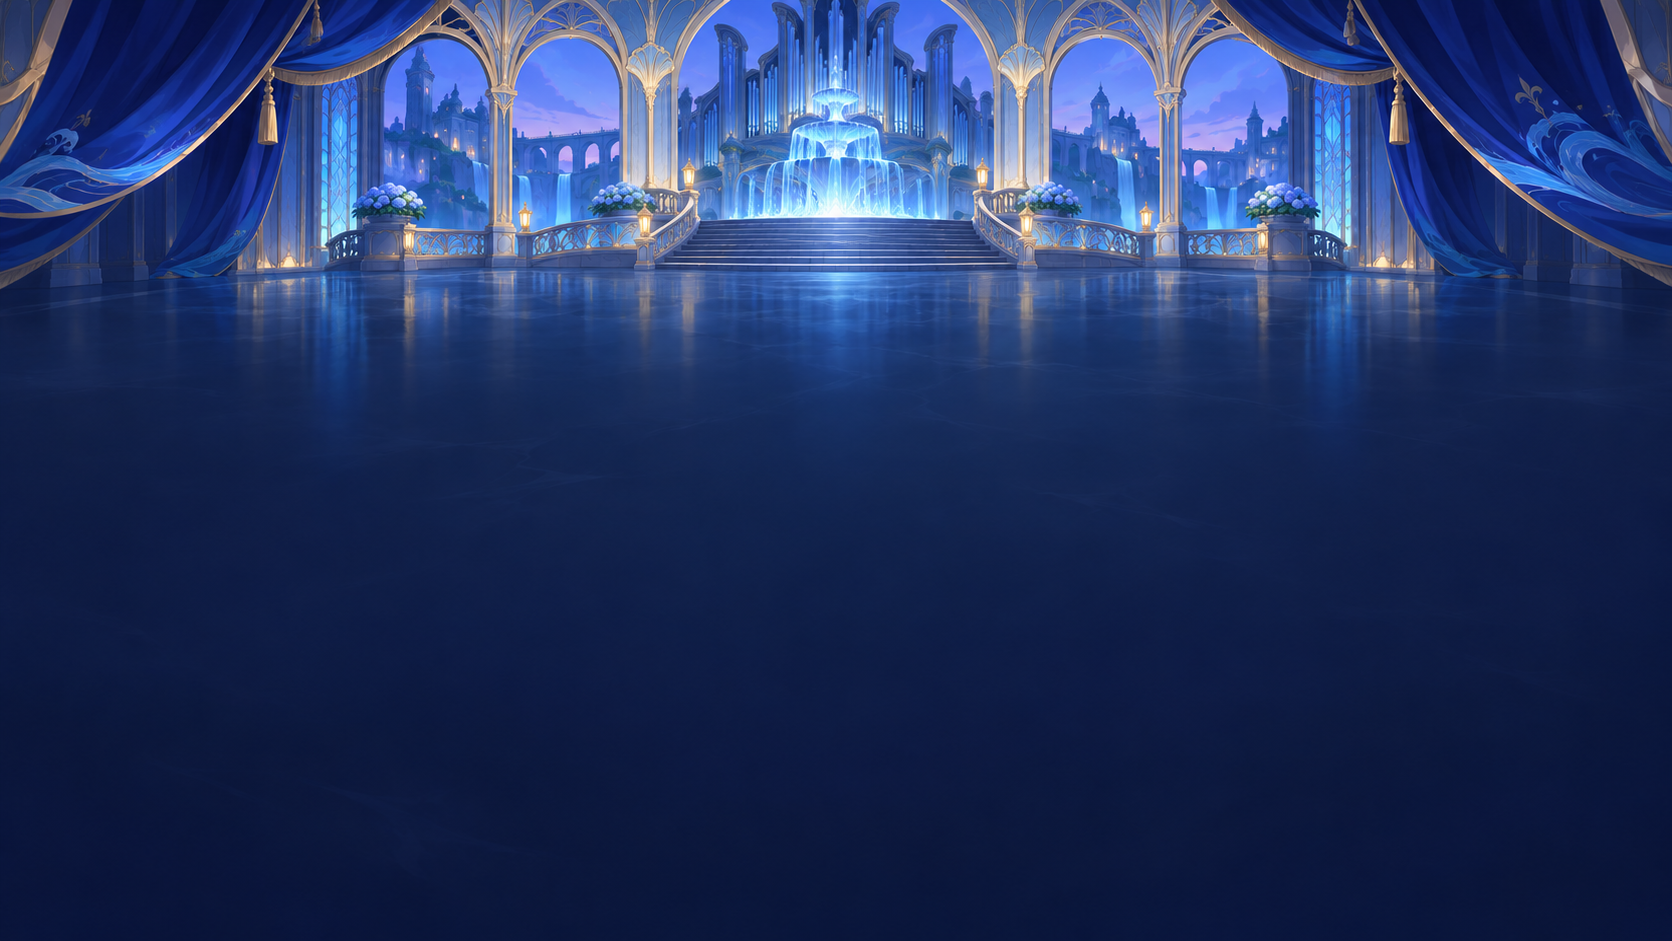
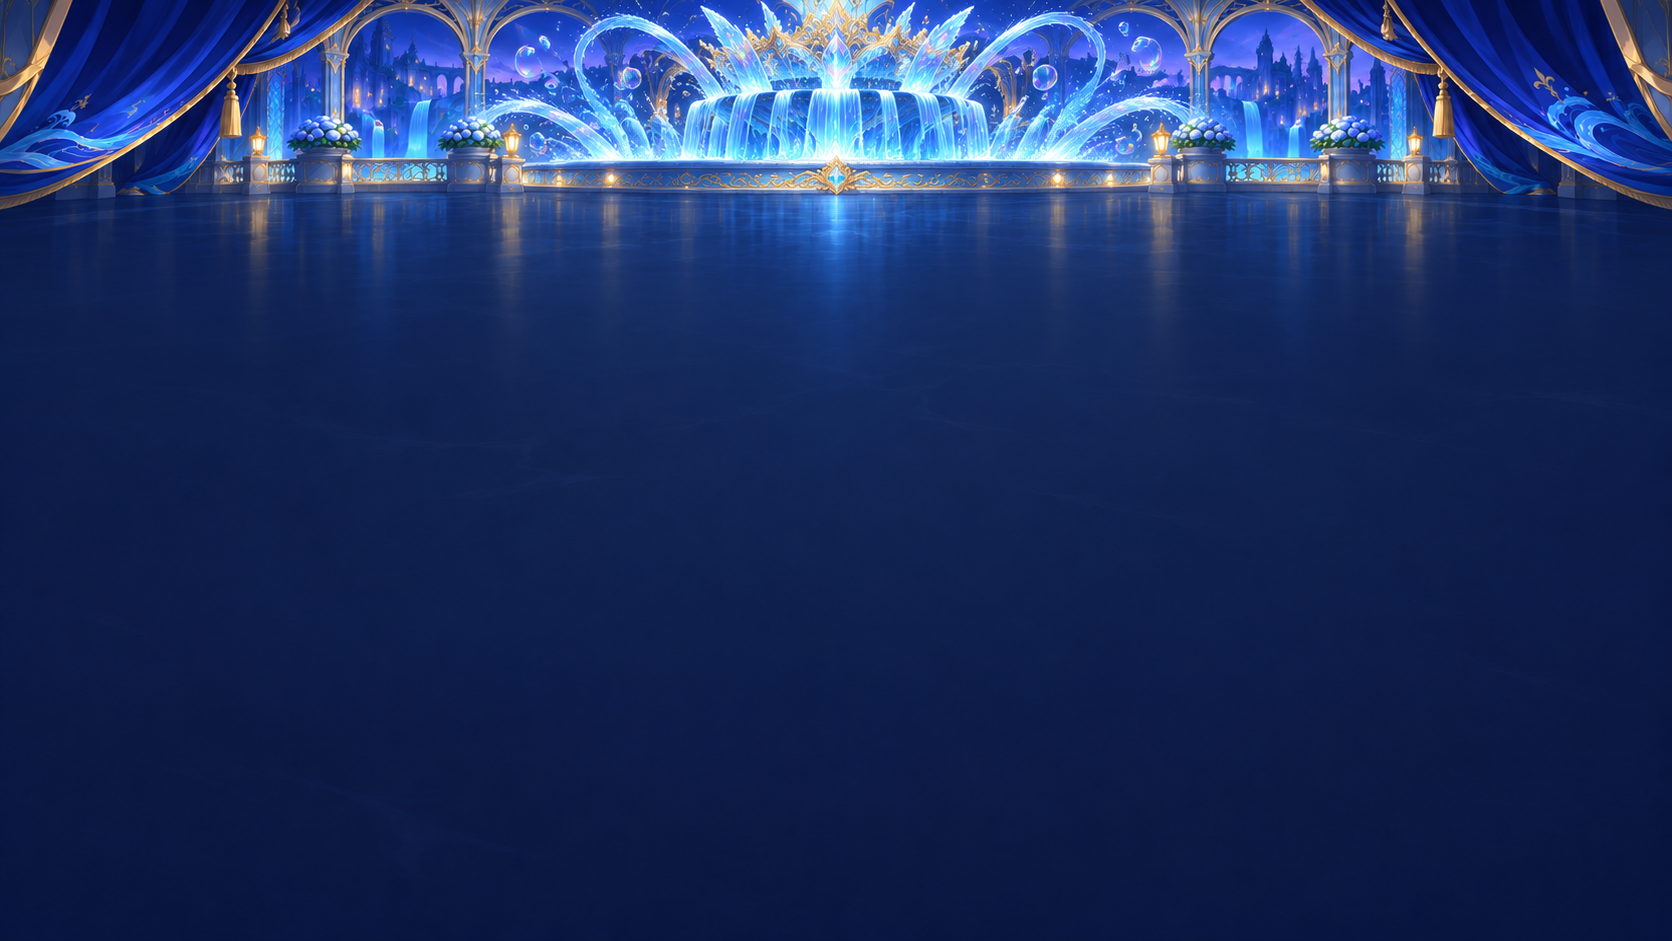
feat(ui): integrate painted water layers and fountain with readable controls

Changed region(s): [[0.0, 0.0, 1.0, 0.4315]]

diff --git a/src/VIvian.App/MainWindow.xaml b/src/VIvian.App/MainWindow.xaml
@@ -147,7 +147,7 @@ Title="{Binding Theme.Title}" Width="1600" Height="900" MinWidth="960" MinHeight
 <TextBlock Text="{Binding Queue.Status}" Foreground="{StaticResource DangerText}" FontWeight="SemiBold" Margin="0,0,0,10"/>
 <Button Content="我已确认，全部已关闭" Command="{Binding Queue.AcknowledgeCommand}" IsEnabled="{Binding Queue.CanAcknowledge}" HorizontalAlignment="Left" Background="White"/></StackPanel></Border>
 <!-- 今日概览 -->
-<local:FurinaPanel Style="{StaticResource Panel}" Padding="14,10"><StackPanel>
+<local:FurinaPanel CornerArt="{Binding Theme.WaterCorner}" Style="{StaticResource Panel}" Padding="14,10"><StackPanel>
 <StackPanel Orientation="Horizontal"><local:FurinaPlaque Style="{StaticResource Ribbon}" Margin="0"><StackPanel Orientation="Horizontal"><TextBlock Text="&#xE734;" Style="{StaticResource Icon}" Foreground="{StaticResource GoldText}" FontSize="16" Margin="0,0,10,0"/><TextBlock Text="今日概览" Style="{StaticResource RibbonText}"/></StackPanel></local:FurinaPlaque>
 <TextBlock Text="{Binding TodayText}" Style="{StaticResource Small}" VerticalAlignment="Center" Margin="14,0,0,0"/></StackPanel>
 <UniformGrid x:Name="HomeSummary" Columns="4" Margin="0,8,0,0">
@@ -158,7 +158,7 @@ Title="{Binding Theme.Title}" Width="1600" Height="900" MinWidth="960" MinHeight
 </UniformGrid></StackPanel></local:FurinaPanel>
 
 <!-- 游戏与日常任务 -->
-<local:FurinaPanel Style="{StaticResource Panel}" Padding="14,10"><StackPanel>
+<local:FurinaPanel CornerArt="{Binding Theme.WaterCorner}" Style="{StaticResource Panel}" Padding="14,10"><StackPanel>
 <local:FurinaPlaque Style="{StaticResource Ribbon}"><StackPanel Orientation="Horizontal"><TextBlock Text="&#xE7FC;" Style="{StaticResource Icon}" Foreground="{StaticResource GoldText}" FontSize="16" Margin="0,0,10,0"/><TextBlock Text="游戏与日常任务" Style="{StaticResource RibbonText}"/></StackPanel></local:FurinaPlaque>
 <ItemsControl ItemsSource="{Binding Engines}"><ItemsControl.ItemTemplate><DataTemplate>
 <Border Background="White" BorderBrush="{StaticResource Line}" BorderThickness="1" CornerRadius="12" Margin="0,0,0,7" ClipToBounds="True"><Grid>
@@ -184,7 +184,7 @@ Title="{Binding Theme.Title}" Width="1600" Height="900" MinWidth="960" MinHeight
 
 <!-- 最近运行 + 本次运行 -->
 <Grid><Grid.ColumnDefinitions><ColumnDefinition Width="3*"/><ColumnDefinition Width="2*"/></Grid.ColumnDefinitions>
-<local:FurinaPanel Style="{StaticResource Panel}" Padding="14,10" Margin="0,0,10,14"><StackPanel>
+<local:FurinaPanel CornerArt="{Binding Theme.WaterCorner}" Style="{StaticResource Panel}" Padding="14,10" Margin="0,0,10,14"><StackPanel>
 <local:FurinaPlaque Style="{StaticResource Ribbon}"><StackPanel Orientation="Horizontal"><TextBlock Text="&#xE81C;" Style="{StaticResource Icon}" Foreground="{StaticResource GoldText}" FontSize="16" Margin="0,0,10,0"/><TextBlock Text="最近运行" Style="{StaticResource RibbonText}"/></StackPanel></local:FurinaPlaque>
 <TextBlock Text="还没有真实运行记录。"><TextBlock.Style><Style TargetType="TextBlock" BasedOn="{StaticResource Small}"><Setter Property="Visibility" Value="Collapsed"/><Style.Triggers><DataTrigger Binding="{Binding RecentRuns.Count}" Value="0"><Setter Property="Visibility" Value="Visible"/></DataTrigger></Style.Triggers></Style></TextBlock.Style></TextBlock>
 <ItemsControl ItemsSource="{Binding RecentRuns}"><ItemsControl.ItemTemplate><DataTemplate>
@@ -193,7 +193,7 @@ Title="{Binding Theme.Title}" Width="1600" Height="900" MinWidth="960" MinHeight
 <StackPanel Grid.Column="1"><TextBlock Text="{Binding Game}" FontWeight="SemiBold" FontSize="13"/><TextBlock Text="{Binding Result}" Style="{StaticResource Small}" FontSize="12"/></StackPanel>
 <StackPanel Grid.Column="2" Margin="8,0,0,0"><TextBlock Text="{Binding When}" Style="{StaticResource Small}" FontSize="12" HorizontalAlignment="Right"/><TextBlock Text="{Binding Duration}" Style="{StaticResource Small}" FontSize="12" HorizontalAlignment="Right"/></StackPanel>
 </Grid></DataTemplate></ItemsControl.ItemTemplate></ItemsControl></StackPanel></local:FurinaPanel>
-<local:FurinaPanel Grid.Column="1" Style="{StaticResource Panel}" Padding="14,10"><StackPanel>
+<local:FurinaPanel Grid.Column="1" CornerArt="{Binding Theme.WaterCorner}" Style="{StaticResource Panel}" Padding="14,10"><StackPanel>
 <local:FurinaPlaque Style="{StaticResource Ribbon}"><StackPanel Orientation="Horizontal"><TextBlock Text="&#xE9D2;" Style="{StaticResource Icon}" Foreground="{StaticResource GoldText}" FontSize="16" Margin="0,0,10,0"/><TextBlock Text="本次运行" Style="{StaticResource RibbonText}"/></StackPanel></local:FurinaPlaque>
 <TextBlock Text="{Binding Queue.Current}" FontSize="13"/>
 <TextBlock Text="{Binding Queue.Status}" Style="{StaticResource Small}" Margin="0,4,0,0"/>
@@ -203,15 +203,16 @@ Title="{Binding Theme.Title}" Width="1600" Height="900" MinWidth="960" MinHeight
 
 <!-- Right column: automation control + system status -->
 <ScrollViewer Grid.Column="2" VerticalScrollBarVisibility="Auto" Padding="0,6,0,10"><StackPanel>
-<local:FurinaPanel Style="{StaticResource Panel}" Padding="14,10"><StackPanel>
+<local:FurinaPanel CornerArt="{Binding Theme.WaterCorner}" Style="{StaticResource Panel}" Padding="14,10"><StackPanel>
 <local:FurinaPlaque Style="{StaticResource Ribbon}"><StackPanel Orientation="Horizontal"><TextBlock Text="&#xE945;" Style="{StaticResource Icon}" Foreground="{StaticResource GoldText}" FontSize="16" Margin="0,0,10,0"/><TextBlock Text="自动化控制" Style="{StaticResource RibbonText}"/></StackPanel></local:FurinaPlaque>
 <Button Command="{Binding OneClickCommand}" IsEnabled="{Binding CanOperateWorkspace}" HorizontalAlignment="Center" Margin="0,0,0,6" Cursor="Hand" AutomationProperties.Name="一键日常">
 <Button.Template><ControlTemplate TargetType="Button"><Grid Width="{DynamicResource Furina.RunButtonSize}" Height="{DynamicResource Furina.RunButtonSize}">
-<local:FurinaOrnament Kind="Halo"/>
-<Border x:Name="Core" Margin="28" CornerRadius="100" Background="{StaticResource Dream}" BorderBrush="White" BorderThickness="2">
+<local:FurinaOrnament Kind="Halo" WaterImage="{Binding Theme.WaterFrame}"/>
+<Border x:Name="Core" Margin="36" CornerRadius="100" BorderBrush="White" BorderThickness="2">
+<Border.Background><LinearGradientBrush StartPoint="0.2,0" EndPoint="0.8,1"><GradientStop Color="#4265CF" Offset="0"/><GradientStop Color="#2947B5" Offset="0.48"/><GradientStop Color="#152C78" Offset="1"/></LinearGradientBrush></Border.Background>
 <StackPanel VerticalAlignment="Center" HorizontalAlignment="Center">
 <Path Data="M 0,0 L 26,15 L 0,30 Z" Fill="White" HorizontalAlignment="Center" Margin="6,0,0,6"/>
-<TextBlock Text="一键日常" Foreground="White" FontSize="21" FontWeight="Bold"/><TextBlock Text="自动化日常" Foreground="#DFEAFF" FontSize="12" HorizontalAlignment="Center"/></StackPanel></Border></Grid>
+<TextBlock Text="一键日常" Foreground="White" FontSize="21" FontWeight="Bold"/><TextBlock Text="自动化日常" Foreground="White" FontSize="12" HorizontalAlignment="Center"/></StackPanel></Border></Grid>
 <ControlTemplate.Triggers><Trigger Property="IsMouseOver" Value="True"><Setter TargetName="Core" Property="Opacity" Value="0.9"/></Trigger>
 <Trigger Property="IsPressed" Value="True"><Setter TargetName="Core" Property="Opacity" Value="0.8"/></Trigger></ControlTemplate.Triggers></ControlTemplate></Button.Template></Button>
 <UniformGrid Columns="2">
@@ -224,7 +225,7 @@ Title="{Binding Theme.Title}" Width="1600" Height="900" MinWidth="960" MinHeight
 <TextBlock Text="{Binding StopKeyText}" Style="{StaticResource Small}" FontSize="12" Margin="0,4,0,0"/>
 </StackPanel></Expander>
 </StackPanel></local:FurinaPanel>
-<local:FurinaPanel Style="{StaticResource Panel}" Padding="14,10"><StackPanel>
+<local:FurinaPanel CornerArt="{Binding Theme.WaterCorner}" Style="{StaticResource Panel}" Padding="14,10"><StackPanel>
 <local:FurinaPlaque Style="{StaticResource Ribbon}"><StackPanel Orientation="Horizontal"><TextBlock Text="&#xE9D9;" Style="{StaticResource Icon}" Foreground="{StaticResource GoldText}" FontSize="16" Margin="0,0,10,0"/><TextBlock Text="系统状态" Style="{StaticResource RibbonText}"/></StackPanel></local:FurinaPlaque>
 <Grid Margin="0,2,0,8"><TextBlock Text="任务引擎"/><TextBlock Text="{Binding RunStateText}" Foreground="{StaticResource Ok}" FontWeight="SemiBold" HorizontalAlignment="Right"/></Grid>
 <Grid Margin="0,0,0,8"><TextBlock Text="配置同步"/><TextBlock Text="{Binding ConfigSyncText}" Foreground="{StaticResource Ok}" FontWeight="SemiBold" HorizontalAlignment="Right"/></Grid>
@@ -635,9 +636,7 @@ Title="{Binding Theme.Title}" Width="1600" Height="900" MinWidth="960" MinHeight
 </TabControl>
 
 <!-- Decorative water never covers the persistent footer controls. -->
-<Rectangle Grid.Row="1" Panel.ZIndex="-1" Height="78" VerticalAlignment="Bottom" IsHitTestVisible="False"><Rectangle.Fill>
-<ImageBrush ImageSource="{Binding Theme.WaterForeground}" Viewbox="0,0.25,1,0.75" ViewboxUnits="RelativeToBoundingBox" Stretch="UniformToFill"/>
-</Rectangle.Fill></Rectangle>
+<Image Grid.Row="1" Panel.ZIndex="-1" Height="200" VerticalAlignment="Bottom" Source="{Binding Theme.WaterForeground}" Stretch="Fill" IsHitTestVisible="False"/>
 <!-- Persistent local actions stay reachable even when the page scrolls. -->
 <Border Grid.Row="2" Background="#183477" BorderBrush="#8BB8E4" BorderThickness="0,1,0,0" Padding="14,6">
 <Grid><Grid.ColumnDefinitions><ColumnDefinition Width="*"/><ColumnDefinition Width="Auto"/></Grid.ColumnDefinitions>

diff --git a/src/VIvian.App/AssistantWindow.xaml b/src/VIvian.App/AssistantWindow.xaml
@@ -19,7 +19,7 @@ Foreground="{StaticResource Furina.TextBrush}" UseLayoutRounding="True" RenderOp
 <local:FurinaOrnament Width="40" Height="44" Margin="0,0,8,0"/>
 <StackPanel Grid.Column="1" VerticalAlignment="Center"><TextBlock Text="{Binding Name}" TextWrapping="NoWrap" TextTrimming="CharacterEllipsis" ToolTip="{Binding Name}" Foreground="#FFFFFF" FontSize="22" FontWeight="SemiBold"/>
 <TextBlock Text="{Binding StatusLine}" Foreground="#D6E5FF" FontSize="12"/></StackPanel>
-<Grid Grid.Column="2" Width="102"><ContentPresenter Width="64" Height="58" HorizontalAlignment="Left" Content="{Binding Avatar}" ContentTemplate="{StaticResource AvatarArt}" IsHitTestVisible="False"/>
+<Grid Grid.Column="2" Width="102"><local:FurinaOrnament Kind="Halo" WaterImage="{Binding Theme.WaterFrame}" Width="70" Height="70" HorizontalAlignment="Left" Margin="-6,-6,0,-6"/><ContentPresenter Width="64" Height="58" HorizontalAlignment="Left" Content="{Binding Avatar}" ContentTemplate="{StaticResource AvatarArt}" IsHitTestVisible="False"/>
 <Button Content="×" Click="CloseWindow" ToolTip="收起对话，仅取消模型请求" Width="30" Height="30" MinHeight="30" Padding="0" FontSize="22" HorizontalAlignment="Right" Background="#284CAD" Foreground="White" BorderBrush="#D7BC79" AutomationProperties.Name="收起助手"/>
 </Grid></Grid></Border>
 <StackPanel Grid.Row="1" Margin="14,7,14,5">
@@ -54,7 +54,7 @@ Foreground="{StaticResource Furina.TextBrush}" UseLayoutRounding="True" RenderOp
 <StackPanel><TextBlock Text="{Binding Text}" TextWrapping="Wrap" Foreground="#142651"/>
 <ItemsControl ItemsSource="{Binding Proposals}"><ItemsControl.ItemTemplate><DataTemplate>
 <Border Style="{StaticResource Furina.PanelStyle}" Padding="10" Margin="0,10,0,0"><StackPanel>
-<TextBlock Text="{Binding Title}" FontWeight="Bold"/><TextBlock Text="{Binding TargetText}" FontWeight="SemiBold"/>
+<TextBlock Text="{Binding Title}" FontWeight="Bold" TextWrapping="Wrap"/><TextBlock Text="{Binding TargetText}" FontWeight="SemiBold" TextWrapping="Wrap" ToolTip="{Binding TargetText}"/>
 <TextBlock Text="{Binding Lines}" FontSize="13"/><TextBlock Text="{Binding State}" FontSize="12" Foreground="{StaticResource Furina.MutedTextBrush}"/>
 <Button Content="{Binding ButtonText}" Command="{Binding ConfirmCommand}" IsEnabled="{Binding CanConfirm}" Style="{StaticResource Furina.PrimaryButtonStyle}" HorizontalAlignment="Left" Margin="0,8,0,0"/>
 </StackPanel></Border></DataTemplate></ItemsControl.ItemTemplate></ItemsControl>

diff --git a/src/VIvian.App/FurinaChrome.cs b/src/VIvian.App/FurinaChrome.cs
@@ -8,6 +8,9 @@ namespace VIvian.App;
 // so text contrast auditing stays conservative even though the painted surface is lighter.
 public class FurinaPanel : Border
 {
+    public static readonly DependencyProperty CornerArtProperty = DependencyProperty.Register(nameof(CornerArt), typeof(ImageSource), typeof(FurinaPanel),
+        new FrameworkPropertyMetadata(null, FrameworkPropertyMetadataOptions.AffectsRender));
+    public ImageSource? CornerArt { get => (ImageSource?)GetValue(CornerArtProperty); set => SetValue(CornerArtProperty, value); }
     protected override void OnRender(DrawingContext dc)
     {
         base.OnRender(dc);
@@ -30,6 +33,8 @@ public class FurinaPanel : Border
         // Gold fleuron stays in the top bevel, clear of reading content.
         dc.DrawEllipse(Brushes.White, gold, new Point(ActualWidth - 23, 5), 3, 2);
         dc.DrawLine(gold, new Point(ActualWidth - 36, 5), new Point(ActualWidth - 30, 5));
+        if (CornerArt is not null && ActualWidth >= 140)
+            dc.DrawImage(CornerArt, new Rect(ActualWidth - 74, -16, 68, 68));
     }
 }
 
@@ -73,10 +78,18 @@ public sealed class FurinaOrnament : FrameworkElement
     public static readonly DependencyProperty KindProperty = DependencyProperty.Register(nameof(Kind), typeof(string), typeof(FurinaOrnament),
         new FrameworkPropertyMetadata("Crown", FrameworkPropertyMetadataOptions.AffectsRender));
     public string Kind { get => (string)GetValue(KindProperty); set => SetValue(KindProperty, value); }
+    public static readonly DependencyProperty WaterImageProperty = DependencyProperty.Register(nameof(WaterImage), typeof(ImageSource), typeof(FurinaOrnament),
+        new FrameworkPropertyMetadata(null, FrameworkPropertyMetadataOptions.AffectsRender));
+    public ImageSource? WaterImage { get => (ImageSource?)GetValue(WaterImageProperty); set => SetValue(WaterImageProperty, value); }
     public FurinaOrnament() { IsHitTestVisible = false; Focusable = false; }
     protected override void OnRender(DrawingContext dc)
     {
         if (ActualWidth <= 0 || ActualHeight <= 0) return;
+        if (Kind == "Halo" && WaterImage is not null)
+        {
+            dc.DrawImage(WaterImage, new Rect(0, 0, ActualWidth, ActualHeight));
+            return;
+        }
         dc.PushTransform(new ScaleTransform(ActualWidth / 100, ActualHeight / 100));
         var gold = new Pen(new SolidColorBrush(Color.FromRgb(242, 212, 142)), 2);
         var white = new Pen(new SolidColorBrush(Color.FromRgb(226, 248, 255)), 1.1);

diff --git a/tests/VIvian.Tests/App/FurinaWindowLayoutTests.cs b/tests/VIvian.Tests/App/FurinaWindowLayoutTests.cs
@@ -169,6 +169,23 @@ public sealed class FurinaWindowLayoutTests
             var tinySendBounds = send.TransformToAncestor((Visual)assistant.Content).TransformBounds(new Rect(send.RenderSize));
             Assert.True(tinySendBounds.Bottom <= 392, $"Small work area hides Send: {tinySendBounds}");
             Assert.True(((ScrollViewer)assistant.FindName("ChatScroll")).ViewportHeight >= 22, "Tiny work area hides every message line.");
+            // Explicitly synthetic evidence for Q; no confirmation or execution is invoked here.
+            vm.Assistant.Input = "";
+            vm.Assistant.Messages.Clear();
+            var demoTarget = new AccountConfigurationTarget(GameId.StarRail, Guid.Parse("00000000-0000-0000-0000-000000000001"));
+            var demoCard = new ProposalCard(Guid.NewGuid(), demoTarget, "演示账号组",
+                "1. 演示账号 A：每日实训\n2. 演示账号 B：体力与委托\n按以上顺序展示；不会启动游戏。",
+                "有序计划 · 合成演示", "确认（仅展示）", _ => Task.CompletedTask);
+            vm.Assistant.Messages.Add(new ChatItem(false, "离屏合成样例，不是执行回执。", [demoCard]));
+            ((Expander)assistant.FindName("QuickCommandsExpander")).IsExpanded = false;
+            FlushBindings();
+            Render((FrameworkElement)assistant.Content, 460, 800, Path.Combine(output, "assistant-ordered-plan-DEMO-460x800.png"));
+            vm.Assistant.Messages.Clear();
+            vm.Assistant.Messages.Add(new ChatItem(false,
+                "离屏合成样例，不是执行回执。\n\n这里展示较长说明在助手中的换行与滚动。运行前可以核对账号顺序、任务内容和游戏环境；待确认卡只表示计划仍在等待确认，并不表示任务已经开始或完成。\n\n" +
+                string.Concat(Enumerable.Repeat("如需调整顺序，请先返回账号管理检查已勾选的账号。运行记录应来自真实结果，未获得回执时应保留未知状态。\n\n", 4))));
+            FlushBindings();
+            Render((FrameworkElement)assistant.Content, 460, 720, Path.Combine(output, "assistant-long-message-DEMO-460x720.png"));
             assistant.Close();
             var confirmationGate = new FakeGate();
             var submissions = 0;

diff --git a/src/VIvian.App/Assets/Furina/README.md b/src/VIvian.App/Assets/Furina/README.md
@@ -80,3 +80,8 @@ A 没有修改 App.xaml 或项目文件。
 
 ## Reference fidelity increment (2026-11-13)
 Replaced only three bundled game banners with separate native-generated, text-free character artwork: Paimon / March 7th / Belle-inspired portraits on the right, dark text-safe area on the left, 2172x724. No reference screenshot was edited, cropped into controls or flattened into a UI. Existing canonical filenames and external/GIF lookup untouched. Original art remains in prior git revision. These fan-art illustrations are not official game assets; visual identity/fidelity still requires Q assessment. Source files reside under .codex/generated_images/01a1d4c3-6067-7b22-8179-e9fde0fb2f69; hashes in manifest version2. Code/compatibility review travels with the B reference-fidelity task; visual scores are not self-certified.
+
+## Glass/water increment (2026-11-13)
+Native image generation produced `water-frame.png` (transparent organic water/gold circular ornament, 1254 square) and `water-corner.png` (transparent top-right wave/fleuron, 1254 square), and edited the existing `scene-background.png` (1672x941) to move luminous fountain jets into the top header area. Manifest v3 records exact bytes/hashes. The existing PNG wildcard handles copying/publishing; I registered the two nullable ThemeAssets slots. External artwork still takes priority, missing layers remain optional. `water-foreground.png` is unchanged; full-image display replaces the cropped Viewbox.
+
+Prompt intent for reproducibility: frame—premium hand-painted anime Fontaine water circle, empty transparent center, organic asymmetric sapphire/ice-blue splashes, thin gold filigree and small crown, no text or button; corner—isolated L-shaped top-right crystalline wave, white foam, small droplets, gold curved fleuron, transparent center, no text or UI; background—preserve blue palace/curtains/dark floor, recompose bright fountain jets into the upper 11% so home cards do not conceal them, no people or controls. Frame source `exec-3e9124ca-26e8-482a-b378-3277a974a12b.png`, corner `exec-adfbd23e-af99-412f-a8a3-8911d6fa0bf7.png`, background `exec-73cbefe7-4906-466a-a56d-5e21cd011dea.png`, in the same generated_images directory above. A subsequent corner cleanup attempt increased background haze and was rejected, not shipped. All layers remain separate from real controls; visual scoring remains Q-owned.

diff --git a/docs/parallel/furina-glass-water-plan.md b/docs/parallel/furina-glass-water-plan.md
@@ -3,7 +3,7 @@
 > **For agentic workers:** REQUIRED SUB-SKILL: Use superpowers:executing-plans inline.
 
 **Goal:** 按总控 Q 新反馈改善五处参考质感，先交离屏候选，再独立审查。
-**Architecture:** 复用现有 WPF 装饰控件。浅色阅读底保留；高光、冰边、金饰、水纹不接收输入。无新增资源或依赖。
+**Architecture:** 复用现有 WPF 装饰控件。浅色阅读底保留；高光、冰边、金饰、水纹不接收输入。后续按 Q 指示新增两张透明水饰、替换背景；无新增依赖。
 **Tech Stack:** WPF XAML / DrawingContext / 现有离屏测试。
 **Spec:** 总控 2026-11-13 新任务：冰蓝玻璃/内阴影；圆形按钮水浪水滴；AI 头尾纹饰；导航柔光/金边与底部水纹衔接；弱化游戏行引擎字重。无虚构成功或任务。
 
@@ -13,7 +13,7 @@
 
 ## Global Constraints
 - 保留 PR78 已审查提交；新分支基于 fa2abeb。
-- 仅 FurinaChrome.cs/MainWindow.xaml/AssistantWindow.xaml；不改 I 拥有的 App/项目/主 ViewModel/执行契约。
+- UI 改 FurinaChrome.cs/MainWindow.xaml/AssistantWindow.xaml；素材 manifest/README 同步；两个 ThemeAssets 可空槽位只 cherry-pick I 的提交；不改 I 拥有的 App/项目/主 ViewModel/执行契约。
 - 不打开窗口、游戏或操作真实 DPI。视觉 85 总分/各项 70% 仍待 Q。
 - 本新任务最多两轮 DeepSeek；旧任务不追加轮次。
 
@@ -31,3 +31,5 @@
 - [ ] 新 draft PR、状态和证据交付。实机仍由总控串行安排。
 
 Ruling: 本任务为可逆装饰修改，不新增镜像实现测试；用已有真实控件离屏/命中/交互回归，符合工作区测试范围。
+
+Ruling: Q 拒绝第一版简化矢量质感，明确要求使用生图。改用独立水环/角部透明层与上沿喷泉背景；保留现有角色，底部水纹整图显示。首审已返回，最终复审留给稳定候选，不重置轮次。
